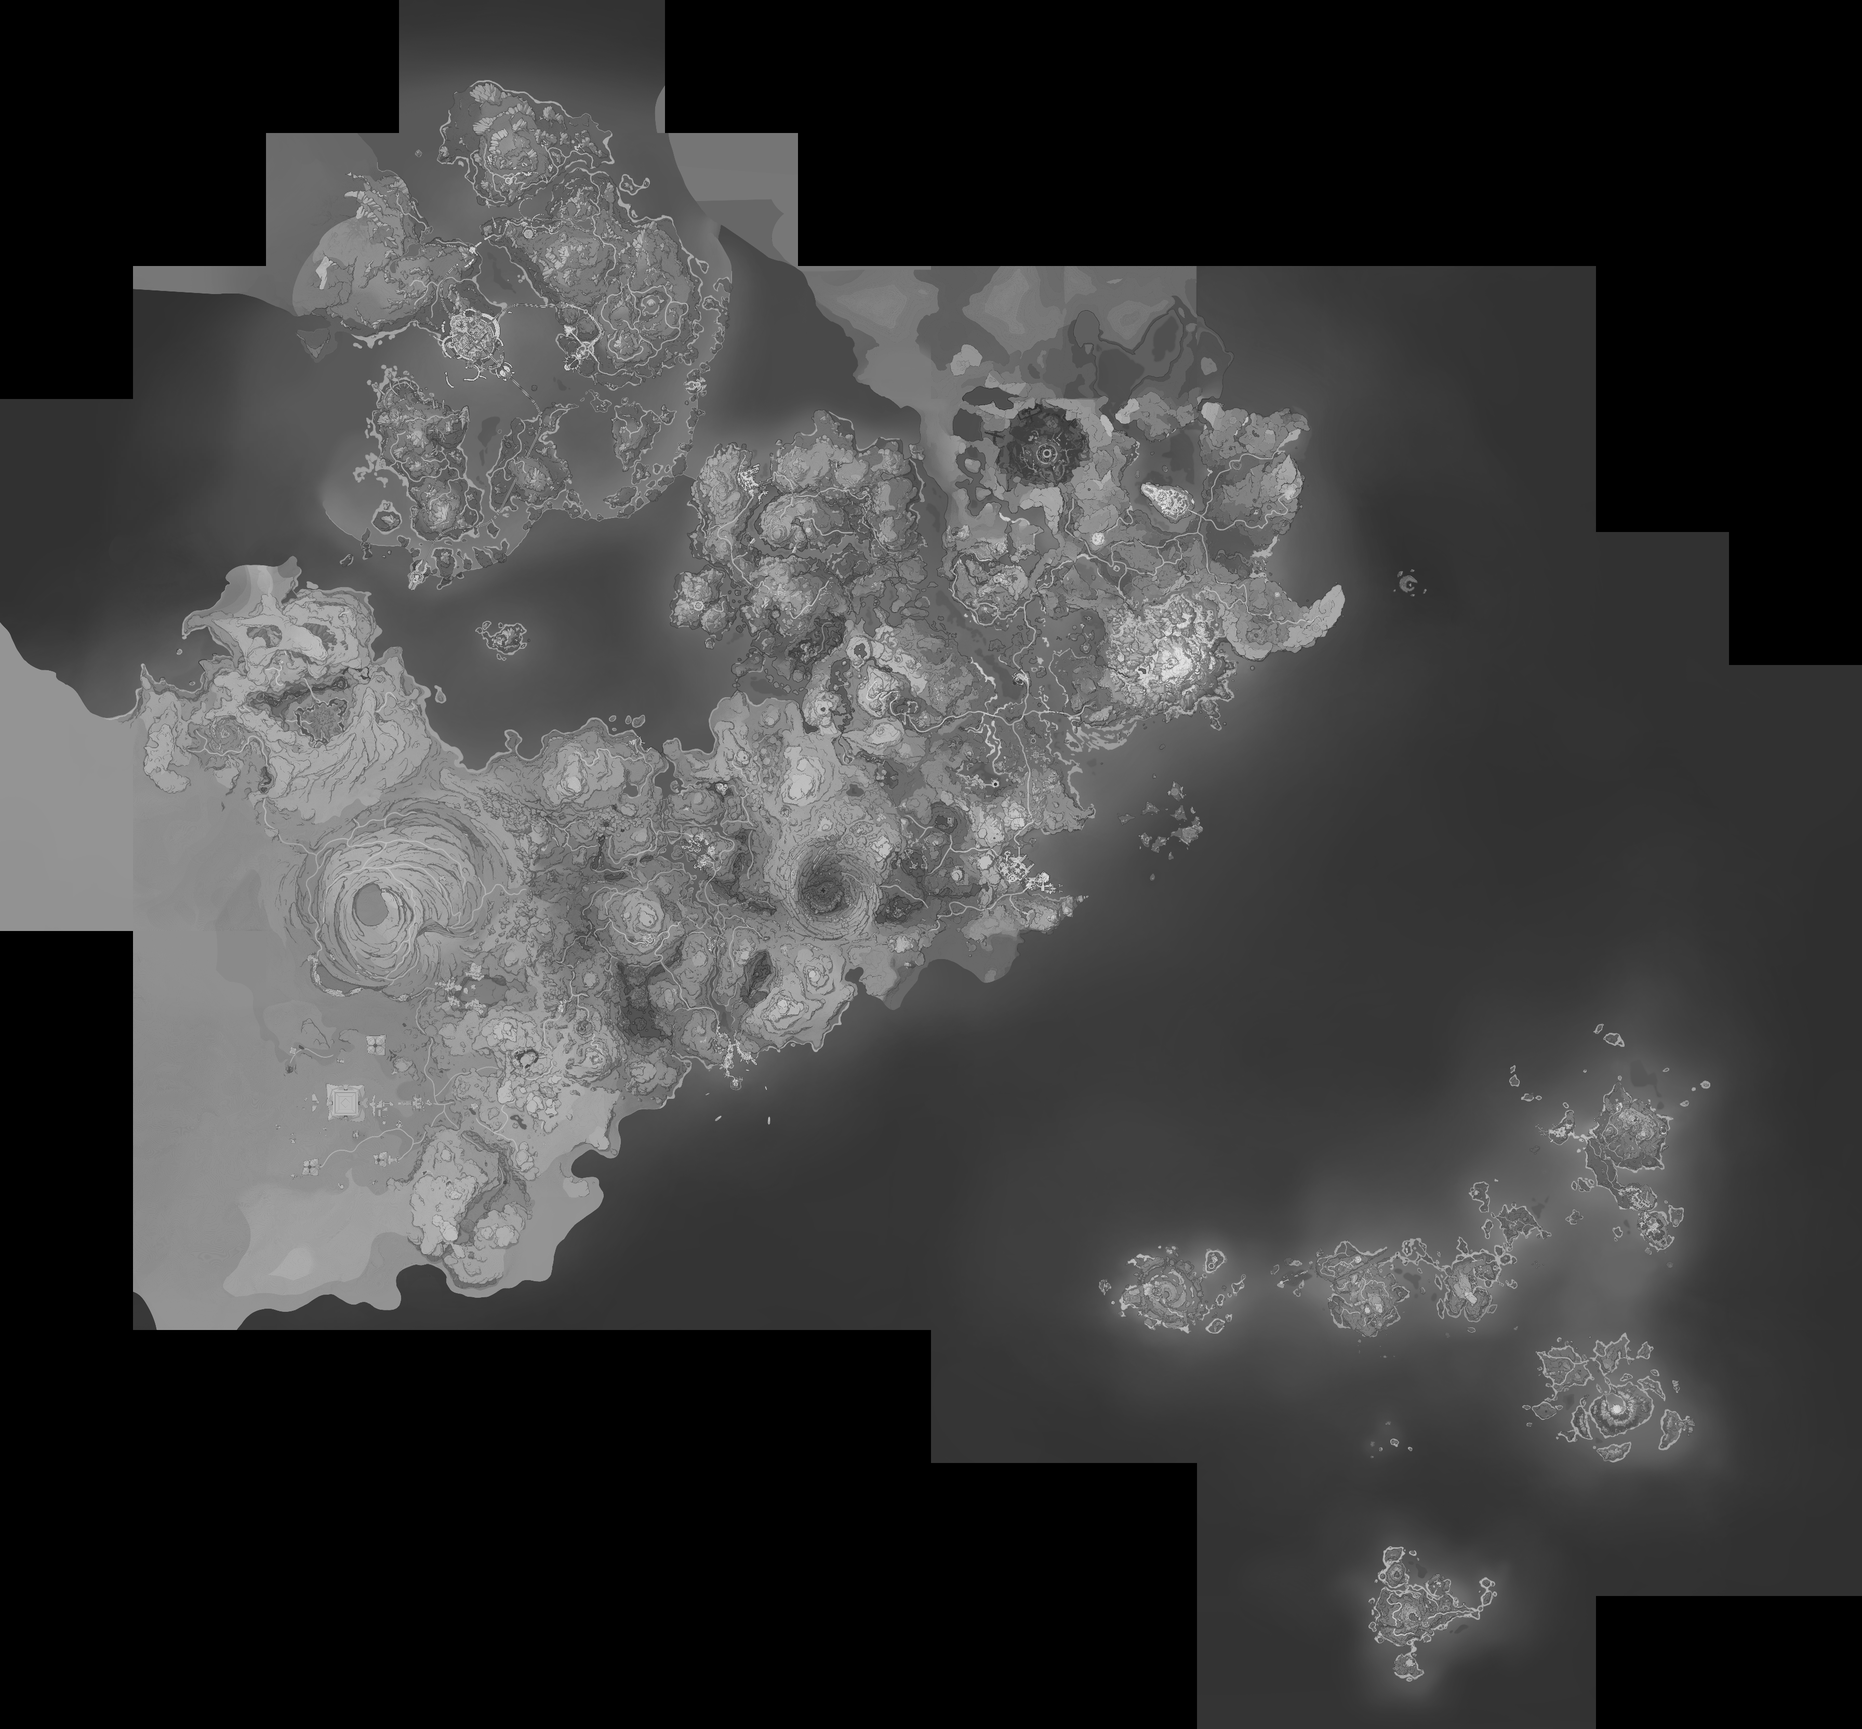
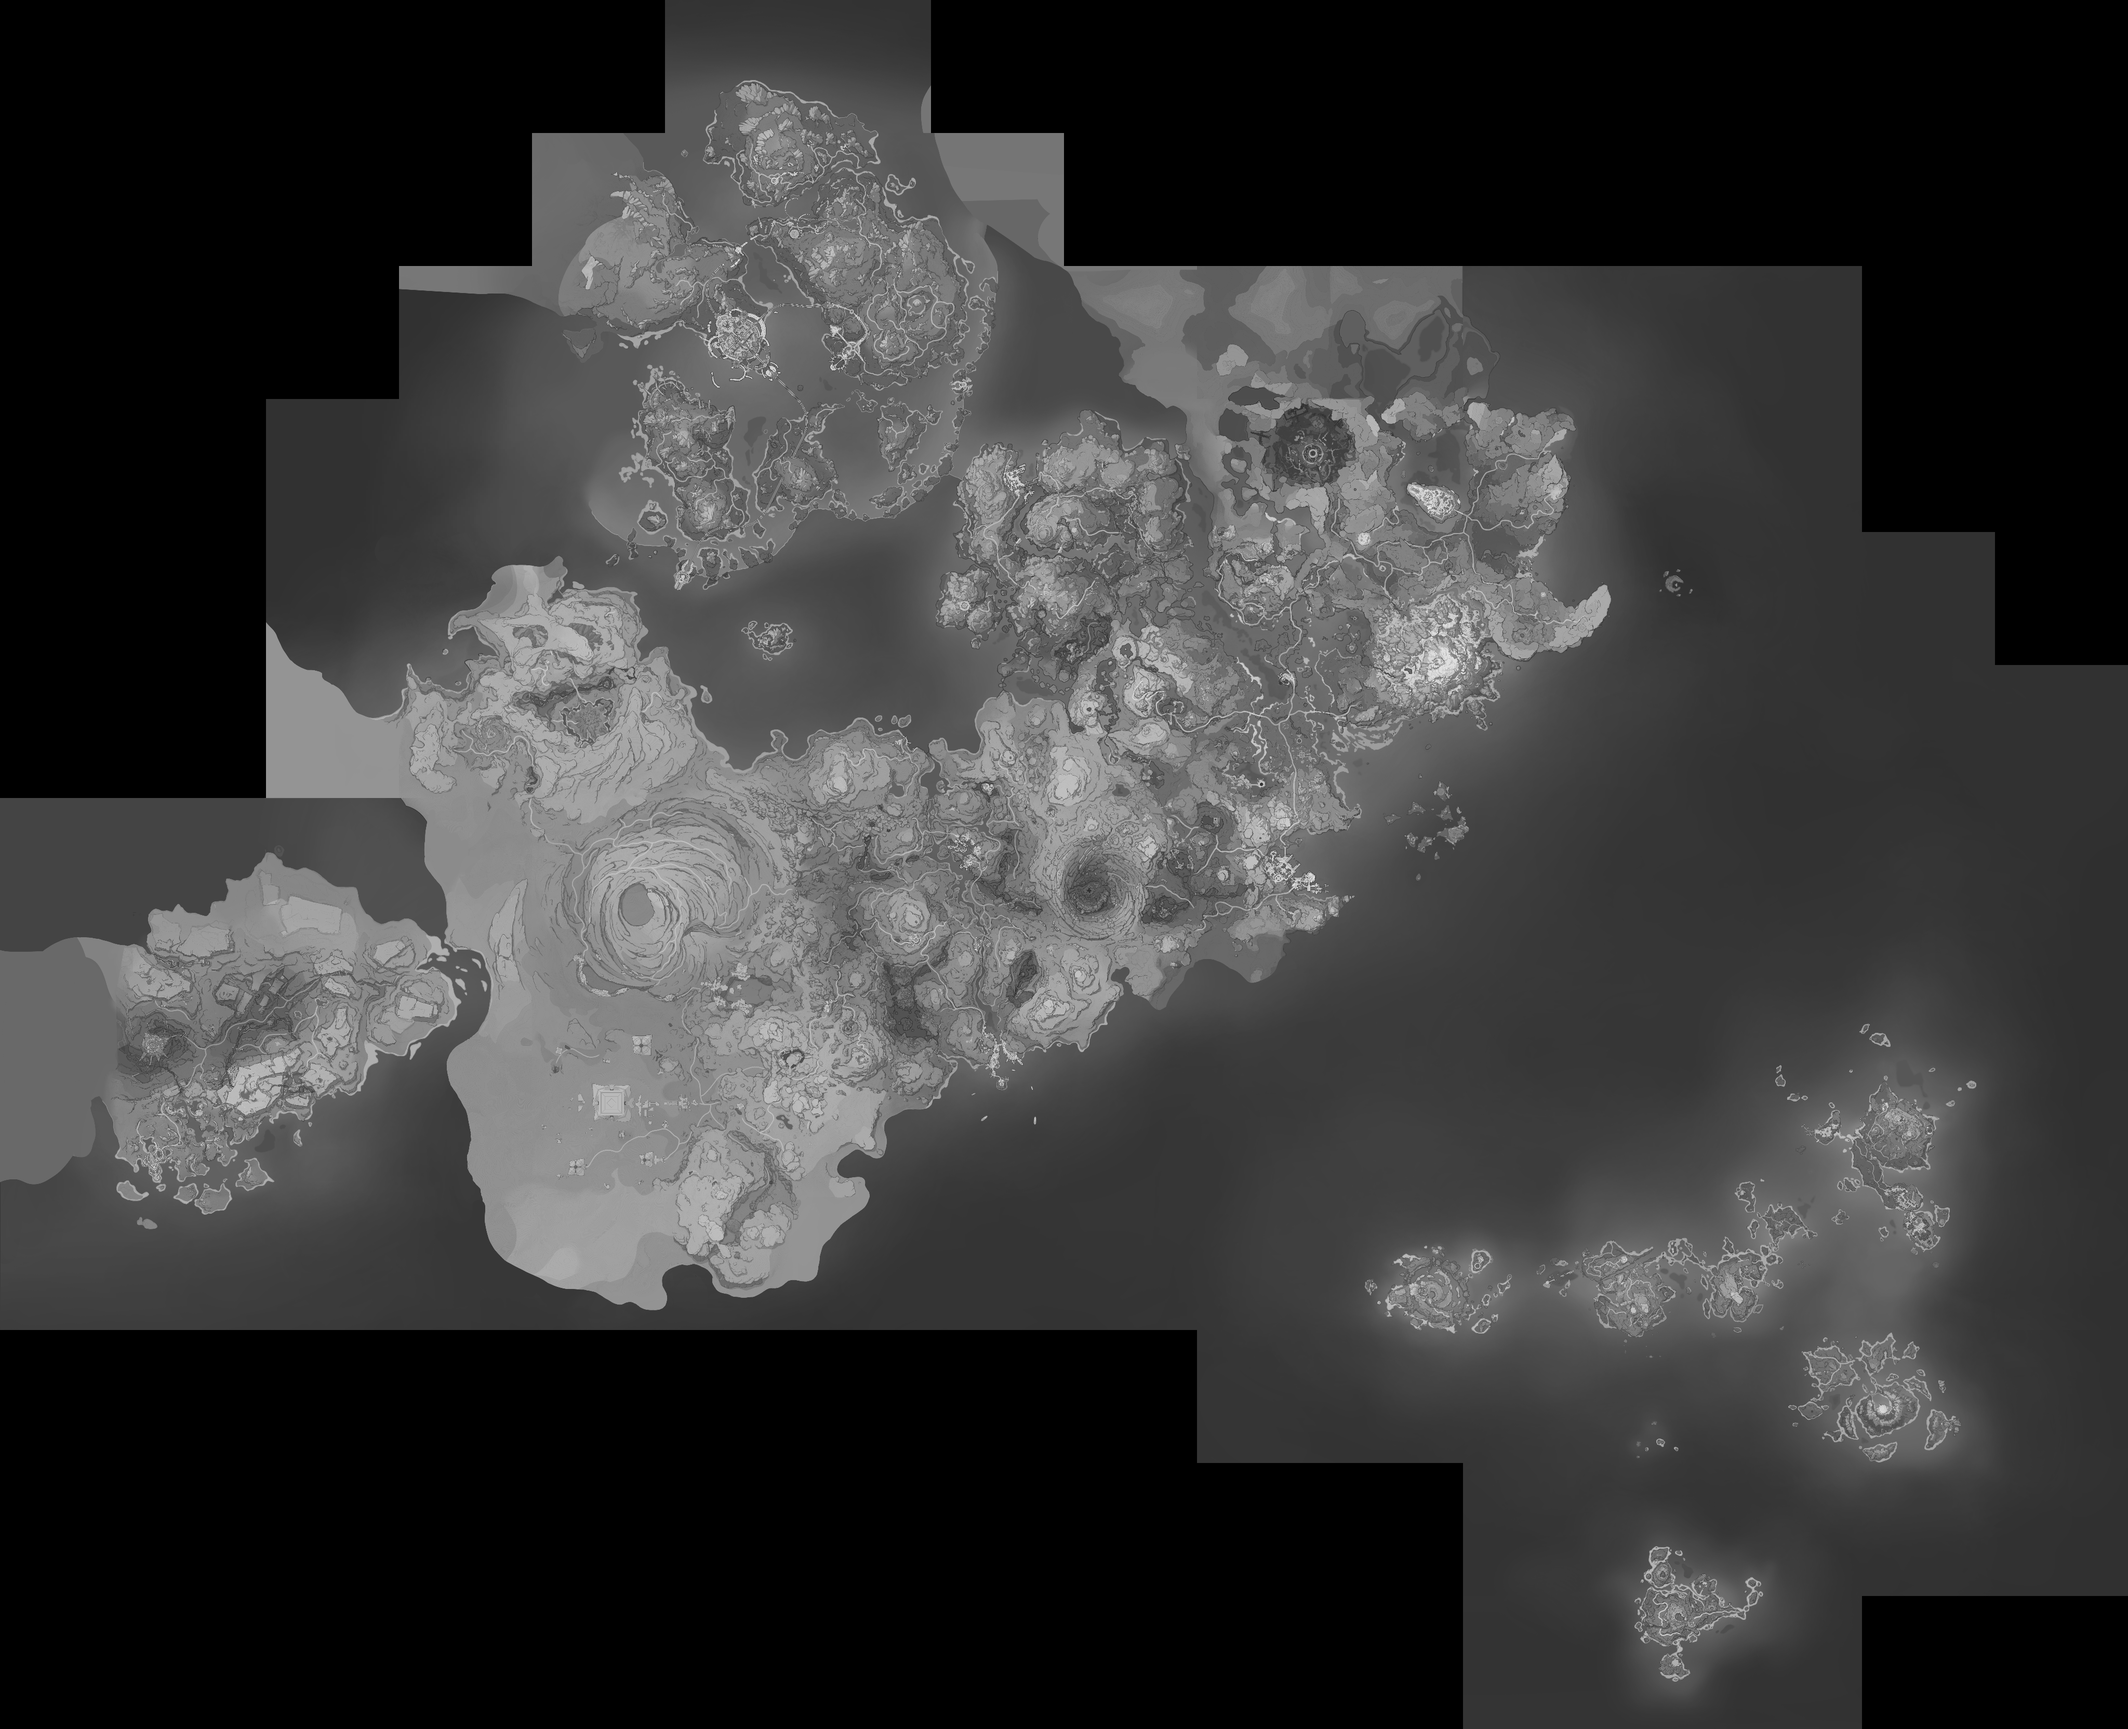
update map data to 5.0

diff --git a/BetterGenshinImpact.Test/MainWindow.xaml b/BetterGenshinImpact.Test/MainWindow.xaml
@@ -4,7 +4,7 @@
         xmlns:d="http://schemas.microsoft.com/expression/blend/2008"
         xmlns:mc="http://schemas.openxmlformats.org/markup-compatibility/2006"
         Title="Test"
-        Width="120"
+        Width="240"
         Height="450"
         mc:Ignorable="d">
     <Canvas>
@@ -62,5 +62,11 @@
                 Height="23"
                 Click="MapPathView"
                 Content="路线地图查看" />
+        <Button Canvas.Left="120"
+            Canvas.Top="10"
+            Width="100"
+            Height="23"
+            Click="ZoomOut"
+            Content="缩小地图到256" HorizontalAlignment="Left" VerticalAlignment="Center" />
     </Canvas>
 </Window>

diff --git a/BetterGenshinImpact.Test/Simple/Track/MapPathTest.cs b/BetterGenshinImpact.Test/Simple/Track/MapPathTest.cs
@@ -13,22 +13,22 @@ internal class MapPathTest
 {
     public static void Test()
     {
-        var wayJson = File.ReadAllText(Global.Absolute(@"log\way\yl3.json"));
-        var way = JsonSerializer.Deserialize<GiPath>(wayJson, ConfigService.JsonOptions) ?? throw new Exception("way json deserialize failed");
-
-        var points = way.WayPointList.Select(giPathPoint => giPathPoint.MatchRect.GetCenterPoint()).ToList();
-
-        var pointsRect = Cv2.BoundingRect(points);
-        var allMap = new Mat(@"E:\HuiTask\更好的原神\地图匹配\有用的素材\mainMap2048Block.png");
-
-        // 按顺序连线，每个点都画圈
-        for (var i = 0; i < points.Count - 1; i++)
-        {
-            Cv2.Line(allMap, points[i], points[i + 1], Scalar.Red, 1);
-            Cv2.Circle(allMap, points[i], 3, Scalar.Red, -1);
-        }
-
-        var map = allMap[new Rect(pointsRect.X - 100, pointsRect.Y - 100, pointsRect.Width + 200, pointsRect.Height + 200)];
-        Cv2.ImShow("map", map);
+        // var wayJson = File.ReadAllText(Global.Absolute(@"log\way\yl3.json"));
+        // var way = JsonSerializer.Deserialize<GiPath>(wayJson, ConfigService.JsonOptions) ?? throw new Exception("way json deserialize failed");
+        //
+        // var points = way.WayPointList.Select(giPathPoint => giPathPoint.MatchRect.GetCenterPoint()).ToList();
+        //
+        // var pointsRect = Cv2.BoundingRect(points);
+        // var allMap = new Mat(@"E:\HuiTask\更好的原神\地图匹配\有用的素材\mainMap2048Block.png");
+        //
+        // // 按顺序连线，每个点都画圈
+        // for (var i = 0; i < points.Count - 1; i++)
+        // {
+        //     Cv2.Line(allMap, points[i], points[i + 1], Scalar.Red, 1);
+        //     Cv2.Circle(allMap, points[i], 3, Scalar.Red, -1);
+        // }
+        //
+        // var map = allMap[new Rect(pointsRect.X - 100, pointsRect.Y - 100, pointsRect.Width + 200, pointsRect.Height + 200)];
+        // Cv2.ImShow("map", map);
     }
 }

diff --git a/BetterGenshinImpact.Test/Simple/AllMap/MapPuzzle.cs b/BetterGenshinImpact.Test/Simple/AllMap/MapPuzzle.cs
@@ -28,7 +28,7 @@ public class MapPuzzle
 
     public static void Put()
     {
-        string folderPath = @"E:\HuiTask\更好的原神\地图匹配\UI_Map"; // 图片文件夹路径
+        string folderPath = @"E:\HuiTask\更好的原神\地图匹配\UI_Map_5.0"; // 图片文件夹路径
         string pattern = @"UI_MapBack_([-+]?\d+)_([-+]?\d+)(.*)";
         var images = Directory.GetFiles(folderPath, "*.png", SearchOption.TopDirectoryOnly); // 获取所有图片文件路径
 
@@ -158,7 +158,7 @@ public class MapPuzzle
         }
 
         // 保存大图
-        Cv2.ImWrite(@"E:\HuiTask\更好的原神\地图匹配\map_46_2048.png", largeImage);
+        Cv2.ImWrite(@"E:\HuiTask\更好的原神\地图匹配\map_50_2048.png", largeImage);
         // Cv2.ImWrite(@"E:\HuiTask\更好的原神\地图匹配\combined_image_sd4x.png", largeImage.Resize(new Size(largeImage.Width / 4, largeImage.Height / 4), 0, 0, InterpolationFlags.Cubic));
         // Cv2.ImWrite(@"E:\HuiTask\更好的原神\地图匹配\combined_image_small.png", largeImage.Resize(new Size(1400, 1300), 0, 0, InterpolationFlags.Cubic));
 

diff --git a/BetterGenshinImpact/GameTask/Common/Map/MapCoordinate.cs b/BetterGenshinImpact/GameTask/Common/Map/MapCoordinate.cs
@@ -11,10 +11,15 @@ namespace BetterGenshinImpact.GameTask.Common.Map;
 /// </summary>
 public class MapCoordinate
 {
+    #region 每次地图扩大都要更新的参数
+
     public static readonly int GameMapRows = 13; // 游戏坐标下地图块的行数
-    public static readonly int GameMapCols = 14; // 游戏坐标下地图块的列数
+    public static readonly int GameMapCols = 16; // 游戏坐标下地图块的列数
     public static readonly int GameMapUpRows = 5; // 游戏坐标下 左上角离地图原点的行数
-    public static readonly int GameMapLeftCols = 7; // 游戏坐标下 左上角离地图原点的列数
+    public static readonly int GameMapLeftCols = 9; // 游戏坐标下 左上角离地图原点的列数
+
+    #endregion 每次地图扩大都要更新的参数
+
     public static readonly int GameMapBlockWidth = 1024; // 游戏地图块的长宽
 
     /// <summary>

diff --git a/BetterGenshinImpact.Test/Simple/ScaleTest.cs b/BetterGenshinImpact.Test/Simple/ScaleTest.cs
@@ -1,0 +1,16 @@
+using OpenCvSharp;
+
+namespace BetterGenshinImpact.Test.Simple;
+
+public class ScaleTest
+{
+    public static void ZoomOutTest()
+    {
+        var mainMap2048BlockMat = new Mat(@"E:\HuiTask\更好的原神\地图匹配\有用的素材\5.0\mainMap2048Block.png", ImreadModes.Grayscale);
+        // 缩小 2048/256 = 8 倍
+        var targetFilePath = @"E:\HuiTask\更好的原神\地图匹配\有用的素材\5.0\mainMap256Block.png";
+        // opencv 缩小
+        var mainMap256BlockMat = mainMap2048BlockMat.Resize(new Size(mainMap2048BlockMat.Width / 8, mainMap2048BlockMat.Height / 8));
+        mainMap256BlockMat.SaveImage(targetFilePath);
+    }
+}

diff --git a/BetterGenshinImpact.Test/MainWindow.xaml.cs b/BetterGenshinImpact.Test/MainWindow.xaml.cs
@@ -48,8 +48,8 @@ public partial class MainWindow : Window
     private void DoMatchTest(object sender, System.Windows.RoutedEventArgs e)
     {
         // KeyPointMatchTest.Test();
-        EntireMapTest.Test();
-        // EntireMapTest.Storage();
+        // EntireMapTest.Test();
+        EntireMapTest.Storage();
         // BigMapMatchTest.Test();
 
         // FeatureTransfer.Transfer();
@@ -73,5 +73,10 @@ public partial class MainWindow : Window
     private void MapPathView(object sender, RoutedEventArgs e)
     {
         MapPathTest.Test();
+    }
+
+    private void ZoomOut(object sender, RoutedEventArgs e)
+    {
+        ScaleTest.ZoomOutTest();
     }
 }

diff --git a/BetterGenshinImpact/GameTask/Common/Element/Assets/MapAssets.cs b/BetterGenshinImpact/GameTask/Common/Element/Assets/MapAssets.cs
@@ -12,7 +12,7 @@ namespace BetterGenshinImpact.GameTask.Common.Element.Assets;
 
 public class MapAssets : BaseAssets<MapAssets>
 {
-    public Lazy<Mat> MainMap2048BlockMat { get; } = new(() => new Mat(@"E:\HuiTask\更好的原神\地图匹配\有用的素材\mainMap2048Block.png", ImreadModes.Grayscale));
+    public Lazy<Mat> MainMap2048BlockMat { get; } = new(() => new Mat(@"E:\HuiTask\更好的原神\地图匹配\有用的素材\5.0\mainMap2048Block.png", ImreadModes.Grayscale));
 
     public Lazy<Mat> MainMap256BlockMat { get; } = new(() => new Mat(Global.Absolute(@"Assets\Map\mainMap256Block.png"), ImreadModes.Grayscale));
 
